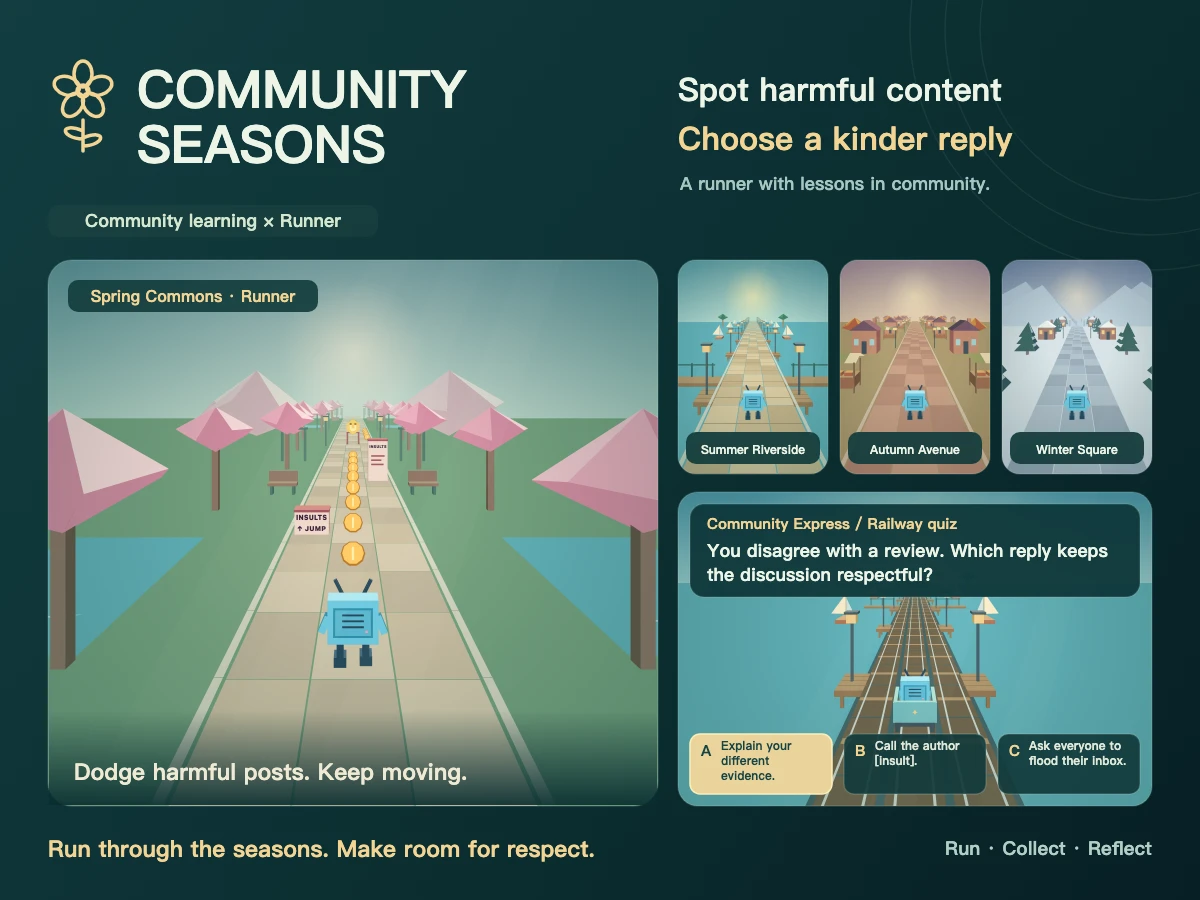
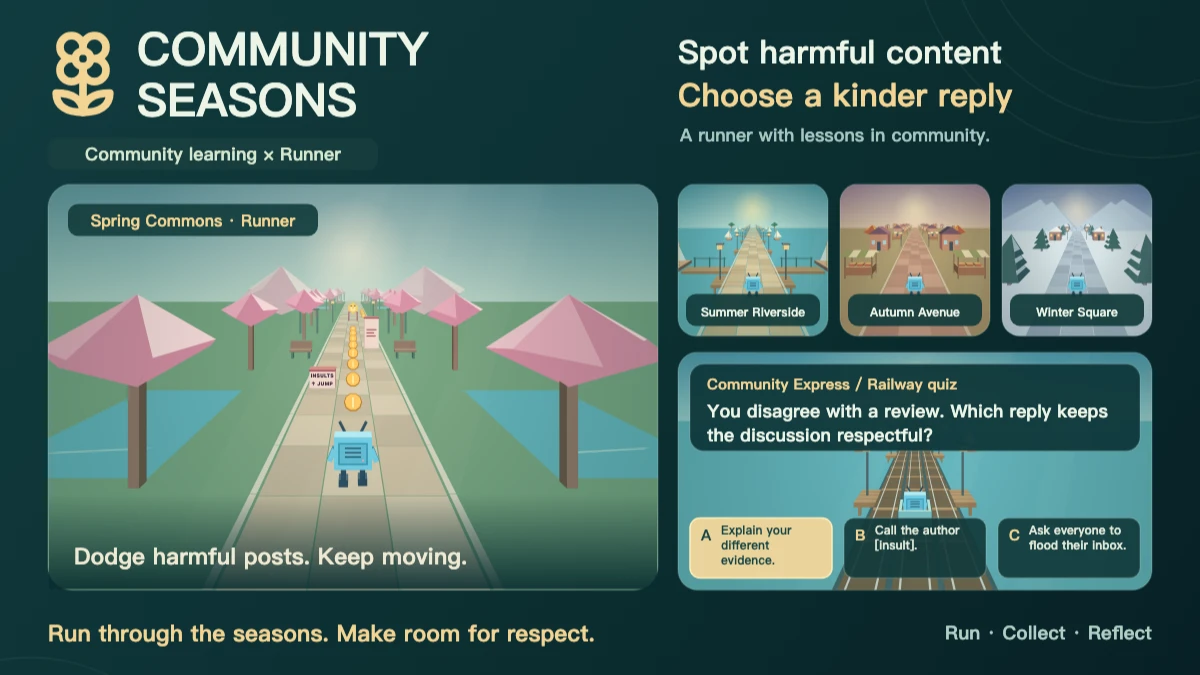
Make Toy artwork crop-safe and export 16:9 README images (#37)

diff --git a/scripts/readme-thumbnail/README.md b/scripts/readme-thumbnail/README.md
@@ -2,15 +2,20 @@
 
 [English](README.md) | [简体中文](README.zh-CN.md)
 
-The Chinese README uses the repository's [1200 × 900 WebP copy of the original Toy cover](../../docs/images/community-seasons-zh-CN.webp). Use this checked-in asset when linking to the cover; the Toy CDN URL can return HTTP 403 for external requests. The English version adapts the original Canvas cover generator with localized text and the current game renderer. No image-generation service is used.
+The Toy cover uses a 1200 × 900 (4:3) Canvas layout with all meaningful content inside a centered 1200 × 675 (16:9) safe area. Both root READMEs use the 1200 × 675 safe-area crop exported as WebP. Toy's dynamic feed can crop 112.5 pixels from both the top and bottom; these outer bands contain only background. Text has at least 24 pixels of additional inset inside the safe area, checked using actual glyph bounds. Both languages use the current game renderer. No image-generation service is used.
+
+Use the checked-in [Chinese](../../docs/images/community-seasons-zh-CN.webp) or [English](../../docs/images/community-seasons-en.webp) WebP when linking to the cover; the Toy CDN URL can return HTTP 403 for external requests.
 
 From the repository root, after `npm run setup`:
 
 ```sh
 npx --no-install playwright install chromium
 node scripts/readme-thumbnail/generate.mjs --locale en
+node scripts/readme-thumbnail/generate.mjs --locale zh-CN
 ```
 
-This writes `docs/images/community-seasons-en.webp` using Canvas WebP encoding at quality `0.9`. The generator compiles the current game modules into a temporary directory, renders seeded scenes in an isolated local browser, and removes the temporary files afterward. It reads no player saves and performs no deployment. The question and answer text comes from the game's `respectful-disagreement` question.
+Each invocation writes the 1200 × 675 `docs/images/community-seasons-<locale>.webp` using Canvas WebP encoding at quality `0.9`. These paths are already referenced by the English and Chinese READMEs. It also exports a full-size PNG for Toy upload, a `-16x9.png` centered crop, and a `-bounds.json` layout report under the Git-ignored `results/readme-thumbnail/` directory. Upload the full 1200 × 900 PNG; the `-16x9.png` is for review only. The generator compiles the current game modules into a temporary directory, renders seeded scenes in an isolated local browser, and removes the temporary files afterward. It reads no player saves and performs no deployment. The question and answer text comes from the game's `respectful-disagreement` question.
 
-Edit `poster.mjs` to change the layout or translated copy. Check the resulting WebP at full size and README width before committing it. Fonts can vary by operating system; the original cover and English version were rendered on macOS. Passing `--locale zh-CN` explicitly regenerates the Chinese asset with current artwork; otherwise the converted Toy cover stays intact.
+Edit `poster.mjs` to change the layout or translated copy. Content coordinates are relative to the safe area's top edge at y = 112.5. Check the full cover and 16:9 crop at full size and thumbnail width before committing. Fonts can vary by operating system; these assets were rendered on macOS. The default locale is English. Publishing requires authorization; update only the authorized poster/icon metadata and preserve existing password access by omitting visibility and password flags.
+
+Both commands also export `docs/images/community-seasons-icon.png` (500 × 500, below Toy's 512 KB limit). The icon and cover share the exact Lucide Flower2 geometry used in the game header and share posters, with a gold outline on dark teal. Decorative arcs at the cover's upper right and lower left remain outside the meaningful content. Review the icon at small sizes and with a circular mask; publish it with the cover only when authorized.

diff --git a/scripts/readme-thumbnail/README.zh-CN.md b/scripts/readme-thumbnail/README.zh-CN.md
@@ -2,15 +2,20 @@
 
 [English](README.md) | [简体中文](README.zh-CN.md)
 
-中文 README 使用仓库中保存的[原始 Toy 封面的 1200 × 900 WebP 副本](../../docs/images/community-seasons-zh-CN.webp)。引用封面时请使用这个已纳入版本控制的资源；Toy CDN 链接在外部访问时可能返回 HTTP 403。英文版沿用原封面的 Canvas 绘制方式，替换文案并使用当前游戏渲染器生成画面，不使用图像生成服务。
+Toy 封面采用 1200 × 900（4:3）的 Canvas 布局，所有主要内容位于居中的 1200 × 675（16:9）安全区域内。仓库根目录的中英文 README 均使用该安全区域裁切后导出的 1200 × 675 WebP。Toy 动态页可能裁掉顶部和底部各 112.5 像素，因此这两个区域只绘制背景。文字与安全区域边缘额外保持至少 24 像素间距，并使用实际字形边界进行检查。中英文版本均使用当前游戏渲染器，不使用图像生成服务。
+
+引用封面时请使用已纳入版本控制的[中文](../../docs/images/community-seasons-zh-CN.webp)或[英文](../../docs/images/community-seasons-en.webp) WebP；Toy CDN 链接在外部访问时可能返回 HTTP 403。
 
 在仓库根目录执行 `npm run setup` 后运行：
 
 ```sh
 npx --no-install playwright install chromium
 node scripts/readme-thumbnail/generate.mjs --locale en
+node scripts/readme-thumbnail/generate.mjs --locale zh-CN
 ```
 
-输出文件为 `docs/images/community-seasons-en.webp`，使用 Canvas WebP 编码，质量参数为 `0.9`。脚本将当前游戏模块编译到临时目录，在独立的本地浏览器中绘制固定种子的场景，结束后清理临时文件。整个过程不读取玩家存档，也不会部署作品。题目及选项文案来自游戏题库中的 `respectful-disagreement`。
+每次运行输出 1200 × 675 的 `docs/images/community-seasons-<locale>.webp`，使用 Canvas WebP 编码，质量参数为 `0.9`。中英文 README 已引用这些路径。同时在 Git 忽略的 `results/readme-thumbnail/` 目录输出用于 Toy 上传的完整 PNG、用于检查居中裁切效果的 `-16x9.png`，以及 `-bounds.json` 布局报告。上传完整的 1200 × 900 PNG；`-16x9.png` 仅供检查。脚本将当前游戏模块编译到临时目录，在独立的本地浏览器中绘制固定种子的场景，结束后清理临时文件。整个过程不读取玩家存档，也不会部署作品。题目及选项文案来自游戏题库中的 `respectful-disagreement`。
 
-修改布局或翻译时，编辑 `poster.mjs`。提交前按原尺寸及 README 的显示宽度检查 WebP。字体可能因操作系统而异；原封面和英文版均在 macOS 上绘制。显式传入 `--locale zh-CN` 会用当前画面重新生成中文图片；默认保留转换后的 Toy 封面。
+修改布局或翻译时，编辑 `poster.mjs`。内容坐标以安全区域顶部 y = 112.5 为起点。提交前按原尺寸及缩略图宽度检查完整封面与 16:9 裁切图。字体可能因操作系统而异；这些图片在 macOS 上绘制。默认语言为英语。发布需要授权；只更新已获授权的封面或图标元数据，不传可见性或密码参数，以保留已有密码访问设置。
+
+两个命令还会输出 `docs/images/community-seasons-icon.png`（500 × 500，小于 Toy 的 512 KB 限制）。图标和封面均采用游戏顶部与分享海报中使用的 Lucide Flower2 精确轮廓，以深青色衬托金色线条。封面右上角和左下角的装饰涟漪不承载主要内容。请在小尺寸及圆形遮罩下检查图标，并且只在获得授权后随封面一起发布。

diff --git a/docs/RELEASE.md b/docs/RELEASE.md
@@ -6,6 +6,8 @@ Existing Toy: 四季共建 · Community Seasons
 Toy ID: 30703115016192
 Slug: community-seasons
 
+On 2026-09-17, an authorized cover-and-icon-only update replaced the cover with a 1200 × 900 PNG whose meaningful content fits a centered 1200 × 675 safe area. The cover includes lower-left decorative ripples. The new 500 × 500 PNG icon and cover mark use the same Flower2 geometry as the game header. No game package was uploaded. The CLI initially returned `auditing`; the subsequent listing reported `published`, new poster/icon URLs, and `PASSWORD` visibility. Visibility and password flags were omitted to preserve the existing password. Before submission, both language covers passed glyph-bound checks and visual crop review, the icon passed small-size/circular-mask review, all 330 regression tests passed, and the production build succeeded. Reproducible assets and export instructions are in [the thumbnail generator guide](../scripts/readme-thumbnail/README.md); local PNGs and review reports are under `results/readme-thumbnail/` (Git-ignored).
+
 The latest content update was submitted on 2026-09-14: repeated jump inputs now preserve one uninterrupted jump arc without restarting or queuing another jump. A fresh input after landing starts the next jump; slide repeats and switching between jump and slide retain their existing behavior. Toy accepted the submission with status `auditing`. Title, slug, cover and icon were preserved by omitting metadata flags.
 
 Before submission, the production build, 248 regression tests, type checks and two rounds of all six full fuzz suites passed. Run `node tests/fuzz/run.mjs full --rounds 2 --seed 20260914 --no-tui` to reproduce the full rounds (round seeds `20260914` and `2674696675`, 224 renderer seeds each, 48,129 rendered frames total). Production source hashes stayed unchanged. Four isolated local production-browser smoke checks covered English/Chinese and phone/desktop sizes. The hosted game assets matched the tested build; the HTML differed only by Toy's wrapper redirect. Local reports and exact build hashes are under `results/publish-validation-jump-2026-09-14T06-40-25Z/` (Git-ignored).

diff --git a/docs/RELEASE.zh-CN.md b/docs/RELEASE.zh-CN.md
@@ -6,6 +6,8 @@
 - Toy ID：30703115016192
 - Slug：community-seasons
 
+2026-09-17，经授权仅更新了封面和图标。新封面为 1200 × 900 PNG，主要内容完整位于居中的 1200 × 675 安全区域内，并在左下角加入装饰涟漪。新图标为 500 × 500 PNG，图标与封面标识均采用游戏顶部使用的 Flower2 轮廓。本次未上传游戏包体。CLI 最初返回 `auditing`；随后查询显示 `published`、新的封面和图标地址，以及 `PASSWORD` 可见性。此次未传入可见性或密码参数，以保留原有密码。提交前，中英文封面均通过字形边界检查与裁切效果检查，图标通过小尺寸及圆形遮罩检查，330 项回归测试和正式构建全部通过。资源生成方式见[缩略图生成指南](../scripts/readme-thumbnail/README.zh-CN.md)；本地 PNG 和检查报告位于 Git 忽略的 `results/readme-thumbnail/`。
+
 最近一次内容更新于 2026-09-14 提交：重复跳跃输入现在会保留一次完整的跳跃轨迹，不会重新起跳或排队追加跳跃。落地后的新输入会开始下一次跳跃；重复滑铲、跳跃与滑铲之间的切换仍保持原有行为。Toy 接受提交时返回 `auditing` 状态。此次更新未传入元数据参数，因此保留了标题、slug、封面和图标。
 
 提交前，正式构建、248 项回归测试、类型检查，以及全部六个完整模糊测试套件的两轮执行均已通过。运行 `node tests/fuzz/run.mjs full --rounds 2 --seed 20260914 --no-tui` 可复现这两轮完整测试（轮次种子为 `20260914` 和 `2674696675`，每轮 224 个渲染种子，共渲染 48,129 帧）。正式源码哈希值保持不变。四项隔离的本地正式版浏览器冒烟检查覆盖了英语/中文和手机/桌面尺寸。托管游戏资源与已测试的构建一致；HTML 的差异仅来自 Toy 包装页的重定向。本地报告和精确构建哈希值位于 `results/publish-validation-jump-2026-09-14T06-40-25Z/`（由 Git 忽略）。
